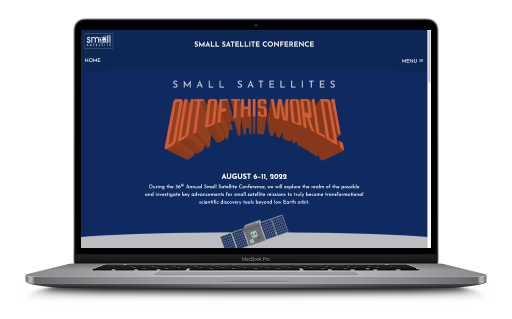
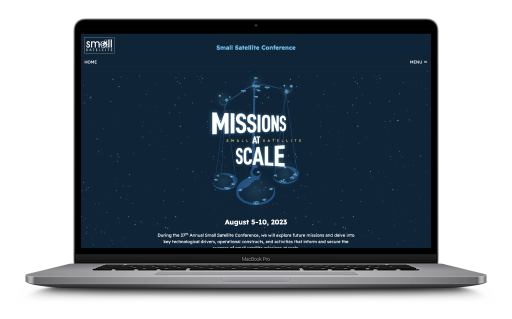
Add SDL, modify smallsat

diff --git a/pages/index.vue b/pages/index.vue
@@ -27,6 +27,11 @@ export default {
     return {
       projects: [
         {
+          title: 'Space Dynamics Laboratory',
+          slug: 'sdl',
+          img: '/img/projects/sdl/sdl.png',
+        },
+        {
           title: 'Cookbook',
           slug: 'cookbook',
           img: '/img/projects/cookbook/cookbook.png',

diff --git a/content/smallsat.md b/content/smallsat.md
@@ -23,18 +23,19 @@ SmallSat changes the theme of their design every year with posters, brochures, m
 <a href="https://web.archive.org/web/20200722050834/https://smallsat.org/" target="_blank" class="btn btn-secondary">2020</a>
 <a href="https://web.archive.org/web/20210616142210/https://smallsat.org/" target="_blank" class="btn btn-secondary">2021</a>
 <a href="https://web.archive.org/web/20220602214552/https://smallsat.org/" target="_blank" class="btn btn-secondary">2022</a>
+<a href="https://smallsat.org/" target="_blank" class="btn btn-secondary">2023</a>
   
 </div>
 
-For changing the theme, I find that Bootstrap is a great tool to use. If you have seen my other projects you will know that I am a huge fan of Bootstrap. One of the main complaints about Bootstrap is that all websites that use it look the same. But, if you take the source Sass files, you can easily change just a few variables and your site will really take shape to something very different. The other reason I like Bootstrap is that they have a simple naming convention, a thorough grid system, and an amazing list of utility classes. Combining these features makes modifying a website style every year a breeze. 
+For changing the theme, I find that Bootstrap is a great tool to use. If you have seen my other projects you will know that I am a huge fan of Bootstrap. One of the community's main complaint about Bootstrap is that all websites that use it look the same. But, if you take the source Sass files, you can easily change just a few variables and your site style will quickly change. The other reason I like Bootstrap is that they have a simple naming convention, a thorough grid system, and an amazing list of utility classes. Combining these features makes modifying a website style every year a breeze. 
 
 Another particular challenge we faced with SmallSat was the COVID-19 pandemic. Like many events, SmallSat was affected in both 2020 and 2021. The SmallSat team was determined to still hold a conference, but this time virtual. They did a lot of amazing work in organizing the entire event and coordinating with the University with their assets, but when it came to implementing a virtual conference on a website, it put a lot of pressure on me and my team.
 
-There were a lot of little hurdles that we had to jump as we developed, like incorporating a new type of schedule, how to show videos, and how to authenticate these users who had signed up for the conference. Taking a few ideas from other personal projects I had worked on, we came up with some creative solutions that couldn't have worked out better. 
+There were a lot of hurdles that we had to jump as we developed such as incorporating a new type of schedule, how to show videos, and how to authenticate these users who had signed up for the conference. Taking a few ideas from other personal projects I had worked on, we came up with some creative solutions that couldn't have worked out better. 
 
 No one wanted to do a virtual conference, but considering the circumstances things worked out really well for the SmallSat team. I may not have played a huge role in the conference as a whole, but my skills, knowledge, and creativity certainly helped ensure that the flow and usability of a new conference format worked well.
 
-<content-img src="/img/projects/smallsat/smallsat-screenshot.png" alt="SmallSat Posters"></content-img>
+<content-img src="/img/projects/smallsat/smallsat-screenshot.png" alt="SmallSat Website Screenshot"></content-img>
 
 <content-btn href="https://smallsat.org">Visit Website</content-btn>
 

diff --git a/content/sdl.md b/content/sdl.md
@@ -1,0 +1,28 @@
+---
+title: Space Dynamics Laboratory
+icons:
+  - Nuxt
+  - Figma
+  - Bootstrap Vue
+  - Sass
+  - Node JS
+  - Bash
+---
+
+Space Dynamics Laboratory (SDL) is a nonprofit organization owned by Utah State University that develops technology for government, military, space, and more. SDL's website which was developed in 2015 was long overdue for a style change and content update. The marketing team at SDL got the go-ahead to redesign the company website and began research and designing. As the primary UX/UI designer on other projects, I was able to help guide the marketing team to create a top-notch design that would work well as an online format. As part of guiding the design, I also trained the designers to use Figma, which is a fantastic tool for mockups and prototypes.
+
+My role in gathering content and doing user research was pretty minimal. My main role was taking website mockups and converting them to code. The top three priorities on this new website were to:
+
+1. Pay attention to search engine optimization
+2. Ensure the website was highly accessible
+3. Support a responsive nature for all screen sizes
+
+For development I went to my favorite stack; Bootstrap Vue, Nuxt, and Sass. Setting up the site was a breeze. One of the tools I created was an SEO checker. On every page we could quickly see if there were any missing critical titles or meta tags. These little development helper tools allowed our team to keep in sync with the development status of certain pages.
+
+Another neat feature I developed was a site-wide keyword search. We wanted a way for users to quickly find information on the site without needing to click on every link. I developed a node script that would crawl each page and extract the page title, description, and any keywords we wanted to provide. It creates a JSON file that returns results with words highlighted as the user types in the searchbox. It also ranks the search results to give the user the best matches on top. If there are no results there is an advanced search available that runs a Google search within our site.
+
+<content-img src="/img/projects/sdl/sdl-screenshot.png" alt="SDL Website Screenshot"></content-img>
+
+<content-btn href="https://www.sdl.usu.edu/">Visit Website</content-btn>
+
+The new website was released in November 2022 and has been one of my favorite projects to work on. It took a lot of teamwork and collaboration but we couldn't have been happier with the result.
